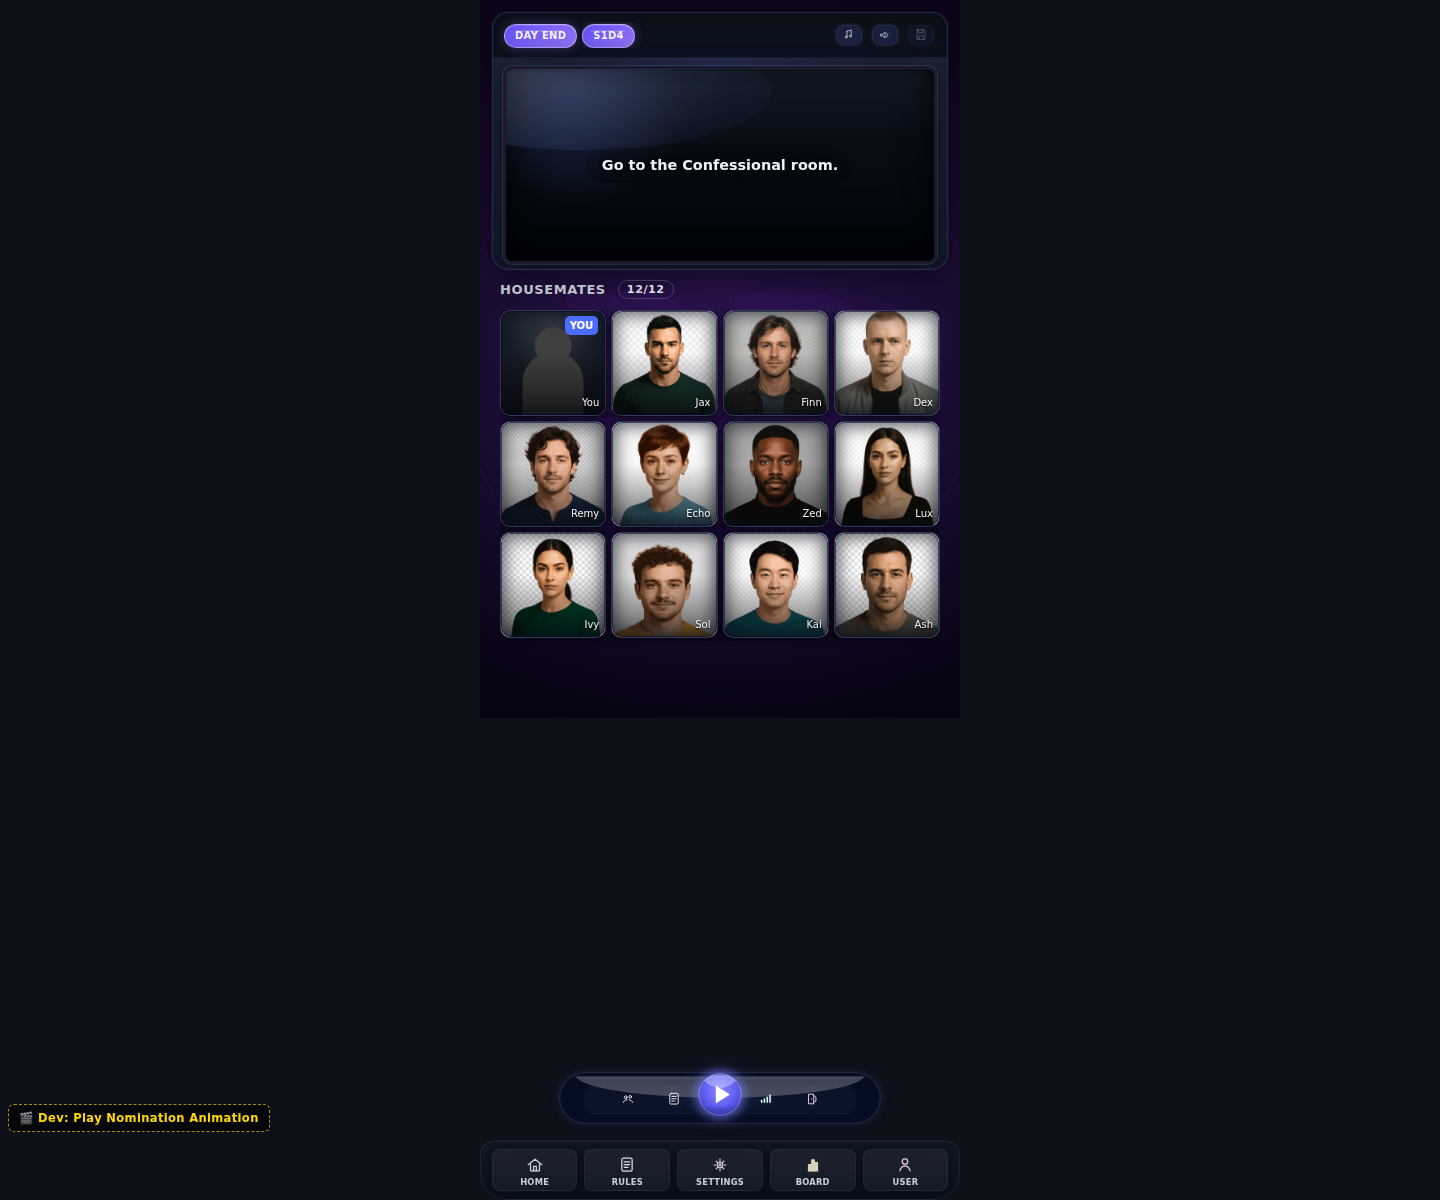
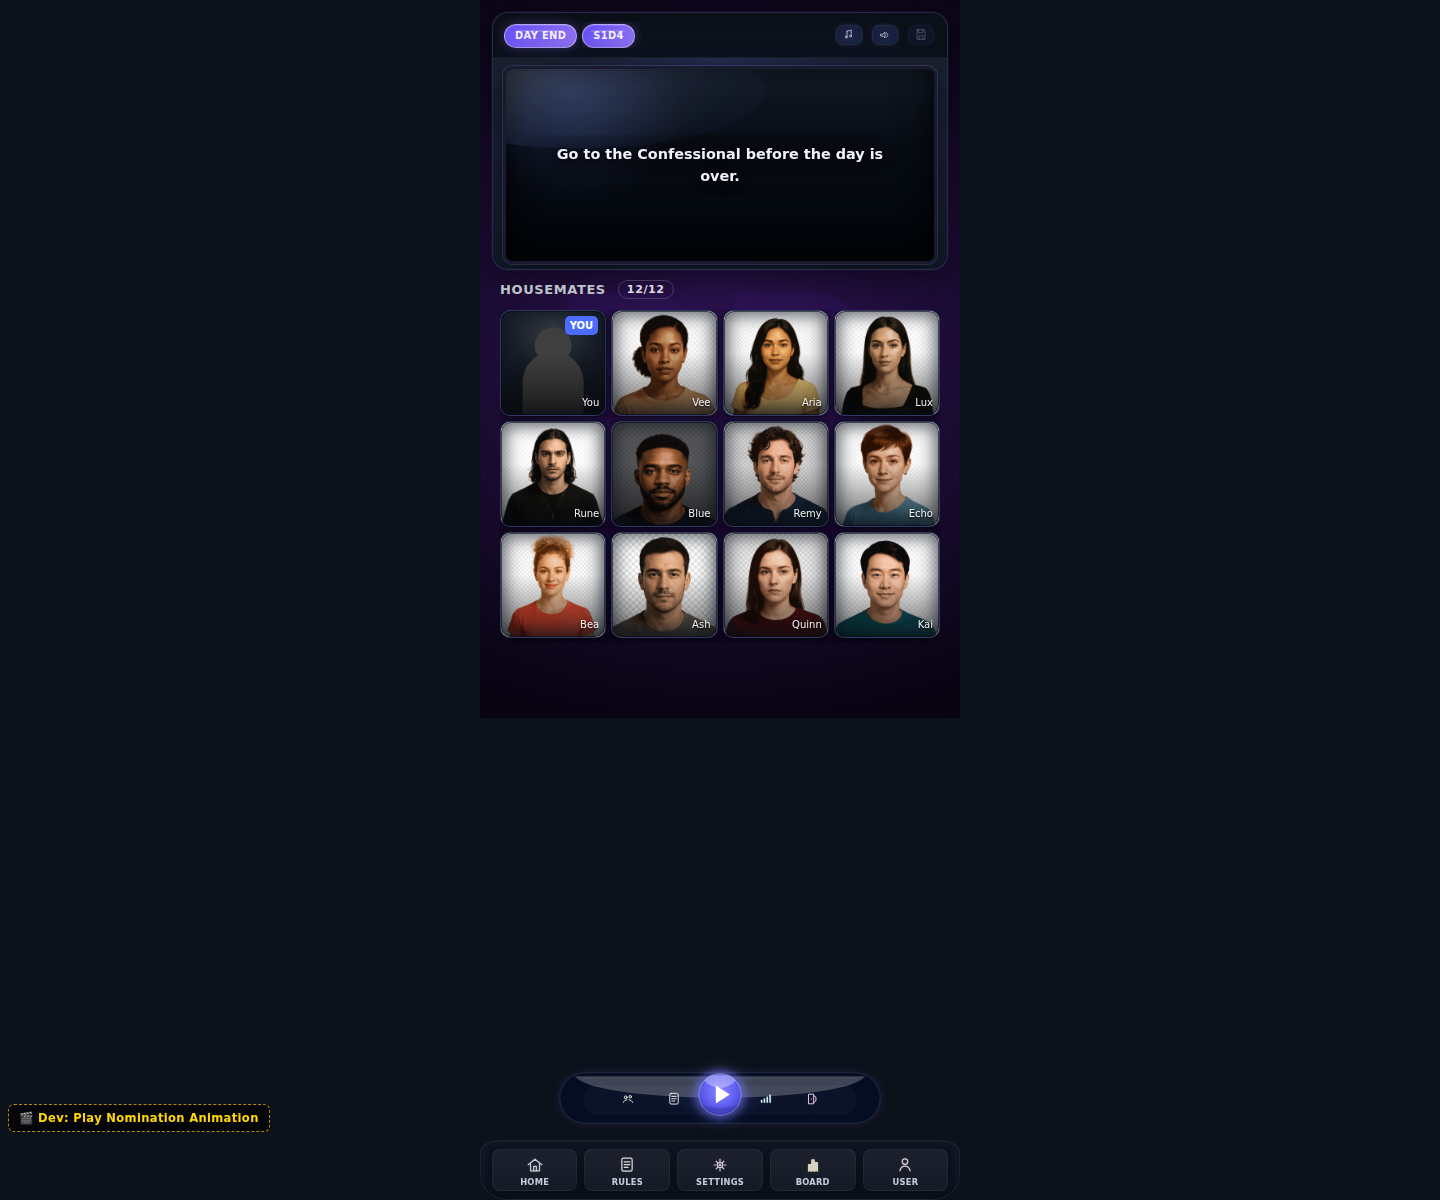
fix: limit confessional vote reveal to eviction day
Agent-Logs-Url: https://github.com/georgi-cole/bbmobilenew/sessions/ab2f6ec3-d4c8-4277-b1b1-95d55ffd84ab

Changed region(s): [[0.3438, 0.2467, 0.6562, 0.555], [0.375, 0.1233, 0.5938, 0.1542]]

diff --git a/src/screens/DiaryRoom/__tests__/DiaryRoom.test.tsx b/src/screens/DiaryRoom/__tests__/DiaryRoom.test.tsx
@@ -258,7 +258,7 @@ describe('DiaryRoom', () => {
     expect(store.getState().game.secretMission?.status).toBe('available');
   });
 
-  it('offers the eviction vote reveal in the confessional when unlocked for the current phase', async () => {
+  it('offers the eviction vote reveal in the confessional during week_end on eviction day', async () => {
     renderDiaryRoom(['/game', '/diary-room'], {
       setupStore: (appStore) => {
         const game = (appStore.getState() as RootState).game;
@@ -276,7 +276,7 @@ describe('DiaryRoom', () => {
         appStore.dispatch(hydrateGame({
           ...game,
           week: 2,
-          phase: 'eviction_results',
+          phase: 'week_end',
         }));
       },
     });
@@ -284,6 +284,33 @@ describe('DiaryRoom', () => {
     expect(screen.getByText(/are you ready to peek behind the curtain/i)).toBeTruthy();
     expect(screen.getByRole('button', { name: 'Yes' })).toBeTruthy();
     expect(screen.getByRole('button', { name: 'No' })).toBeTruthy();
+  });
+
+  it('does not offer the eviction vote reveal after a new day begins', async () => {
+    renderDiaryRoom(['/game', '/diary-room'], {
+      setupStore: (appStore) => {
+        const game = (appStore.getState() as RootState).game;
+        saveEvictionVoteBreakdownUnlock({
+          week: 2,
+          phase: 'eviction_results',
+          votes: {
+            [game.players[1].id]: game.players[2].id,
+            [game.players[3].id]: game.players[2].id,
+          },
+          nomineeIds: [game.players[2].id, game.players[4].id],
+          evicteeId: game.players[2].id,
+          status: 'available',
+        });
+        appStore.dispatch(hydrateGame({
+          ...game,
+          week: 3,
+          phase: 'week_start',
+        }));
+      },
+    });
+
+    expect(screen.queryByText(/are you ready to peek behind the curtain/i)).toBeNull();
+    expect(screen.queryByRole('button', { name: 'Yes' })).toBeNull();
   });
 
   it('reveals the vote chart after accepting the confessional vote breakdown', async () => {

diff --git a/src/features/evictionVoteBreakdownStorage.ts b/src/features/evictionVoteBreakdownStorage.ts
@@ -32,18 +32,20 @@ export function saveEvictionVoteBreakdownUnlock(unlock: EvictionVoteBreakdownUnl
 
 /**
  * Returns true when an eviction vote-breakdown unlock exists and is valid for
- * the given week. Phase is no longer checked — the confessional reveal must
- * remain accessible throughout the entire eviction week regardless of which
- * phase the player visits the Diary Room in (e.g. week_end or week_start after
- * the eviction animation completes). The third argument is kept for call-site
- * compatibility but is intentionally ignored.
+ * the current eviction day. The reveal remains available after the eviction
+ * animation advances from eviction_results into week_end, but it expires once
+ * the next day begins and the game enters week_start.
  */
 export function isEvictionVoteBreakdownActive(
   unlock: EvictionVoteBreakdownUnlock | null,
   week: number,
-  _phase: Phase,
+  phase: Phase,
 ): unlock is EvictionVoteBreakdownUnlock {
-  return Boolean(unlock && unlock.week === week);
+  return Boolean(
+    unlock &&
+    unlock.week === week &&
+    (phase === 'eviction_results' || phase === 'week_end'),
+  );
 }
 
 export function updateEvictionVoteBreakdownStatus(

diff --git a/src/screens/GameScreen/GameScreen.tsx b/src/screens/GameScreen/GameScreen.tsx
@@ -1389,7 +1389,7 @@ export default function GameScreen() {
       })
     }
     dispatch(addTvEvent({
-      text: 'Go to the Confessional room.',
+      text: 'Go to the Confessional before the day is over.',
       type: 'game',
     }))
     const wasPostEviction = isPostEvictionConfessionalModeRef.current
